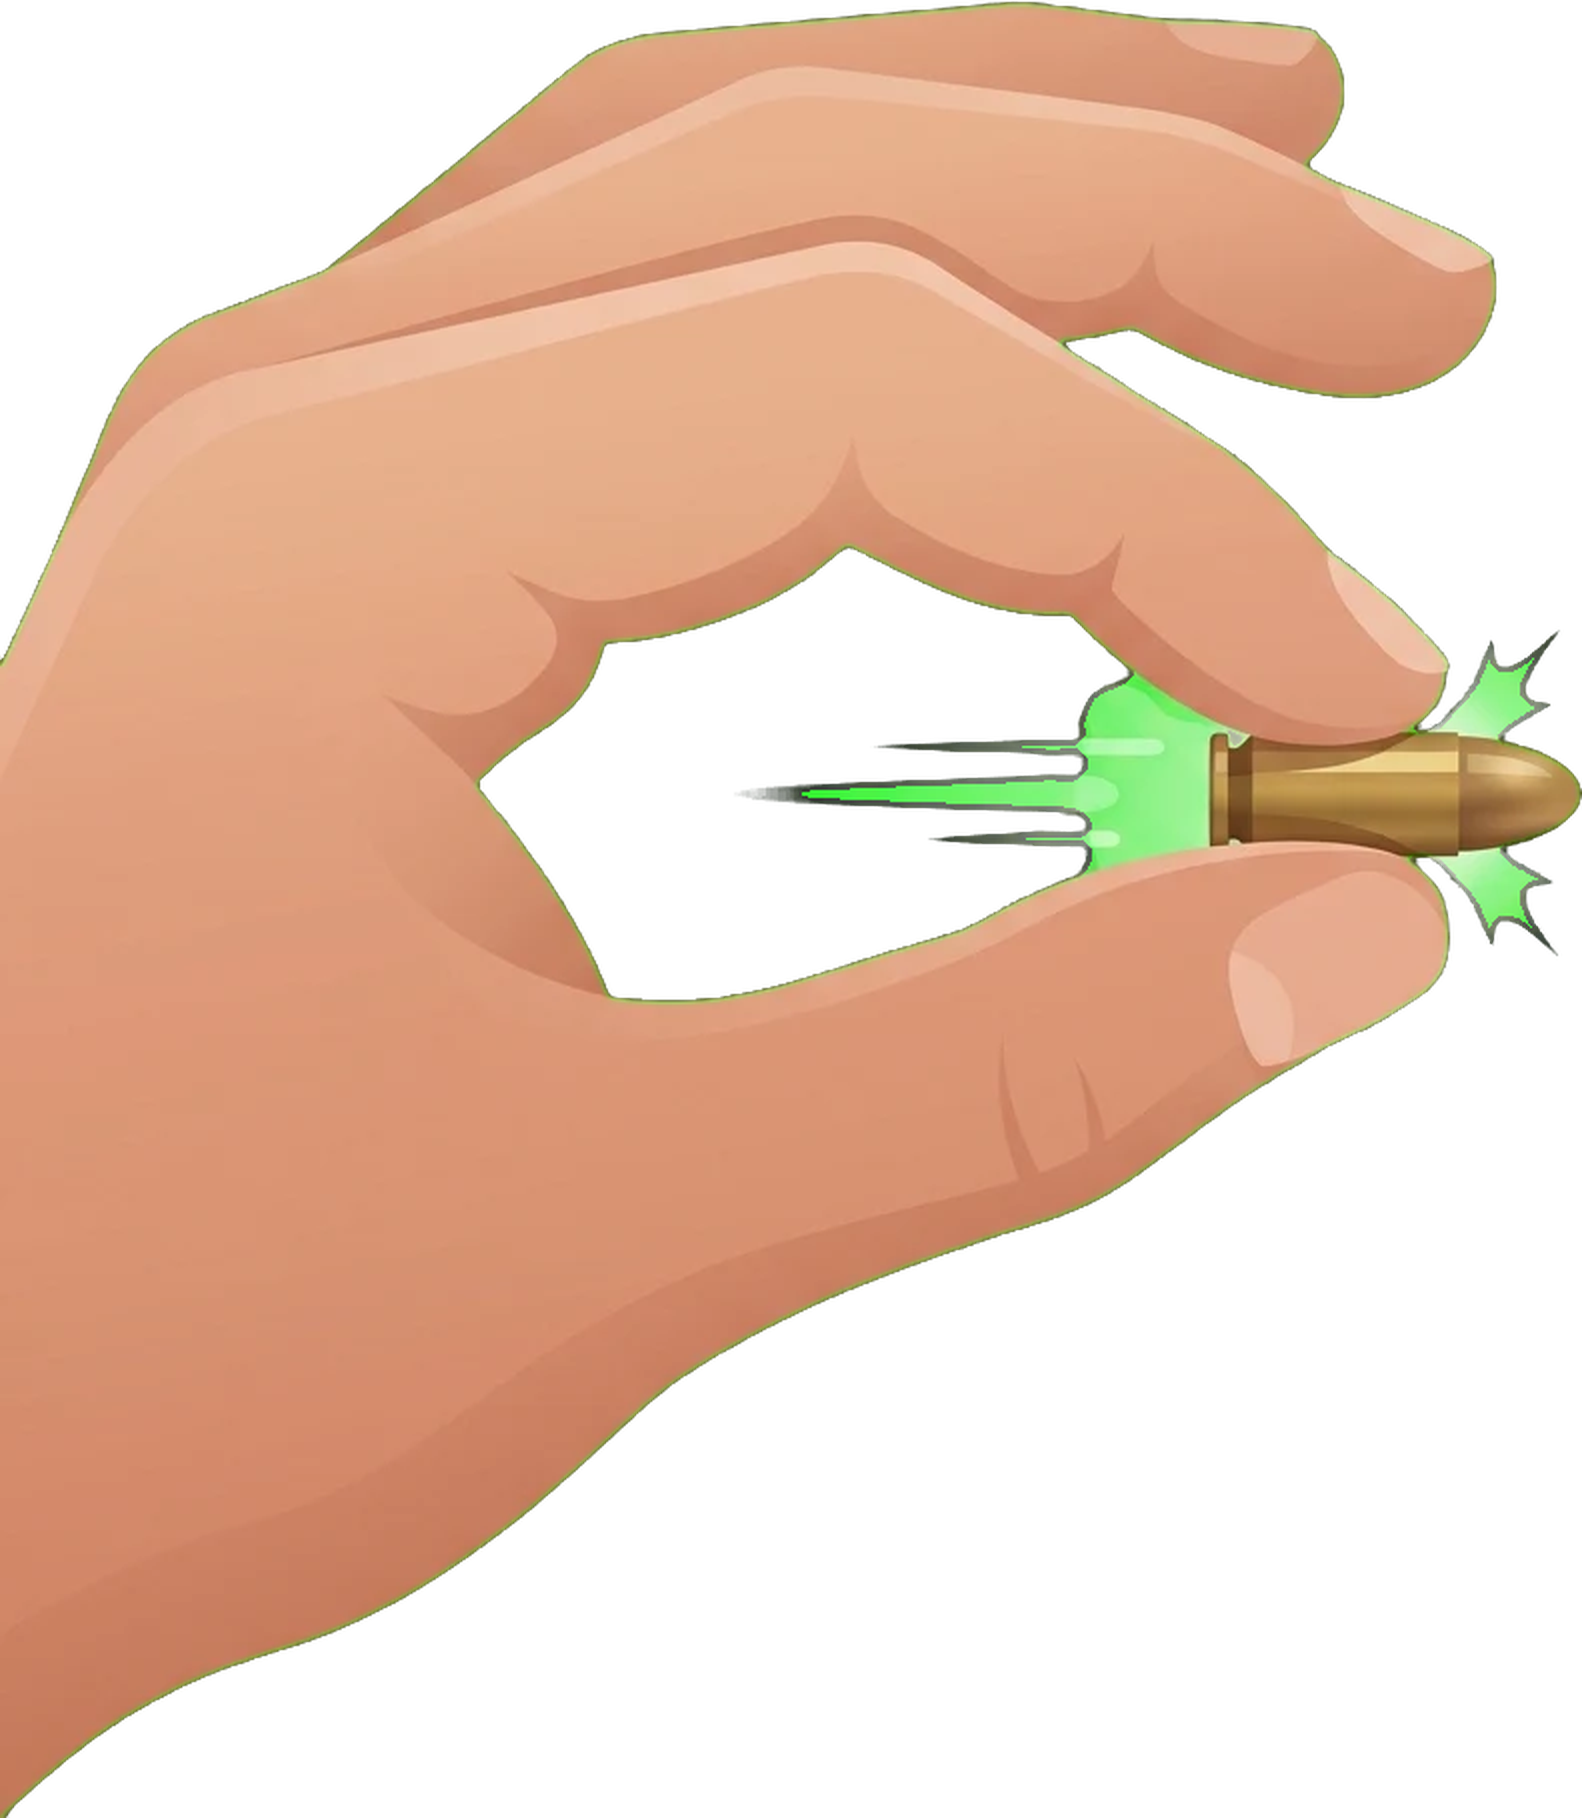
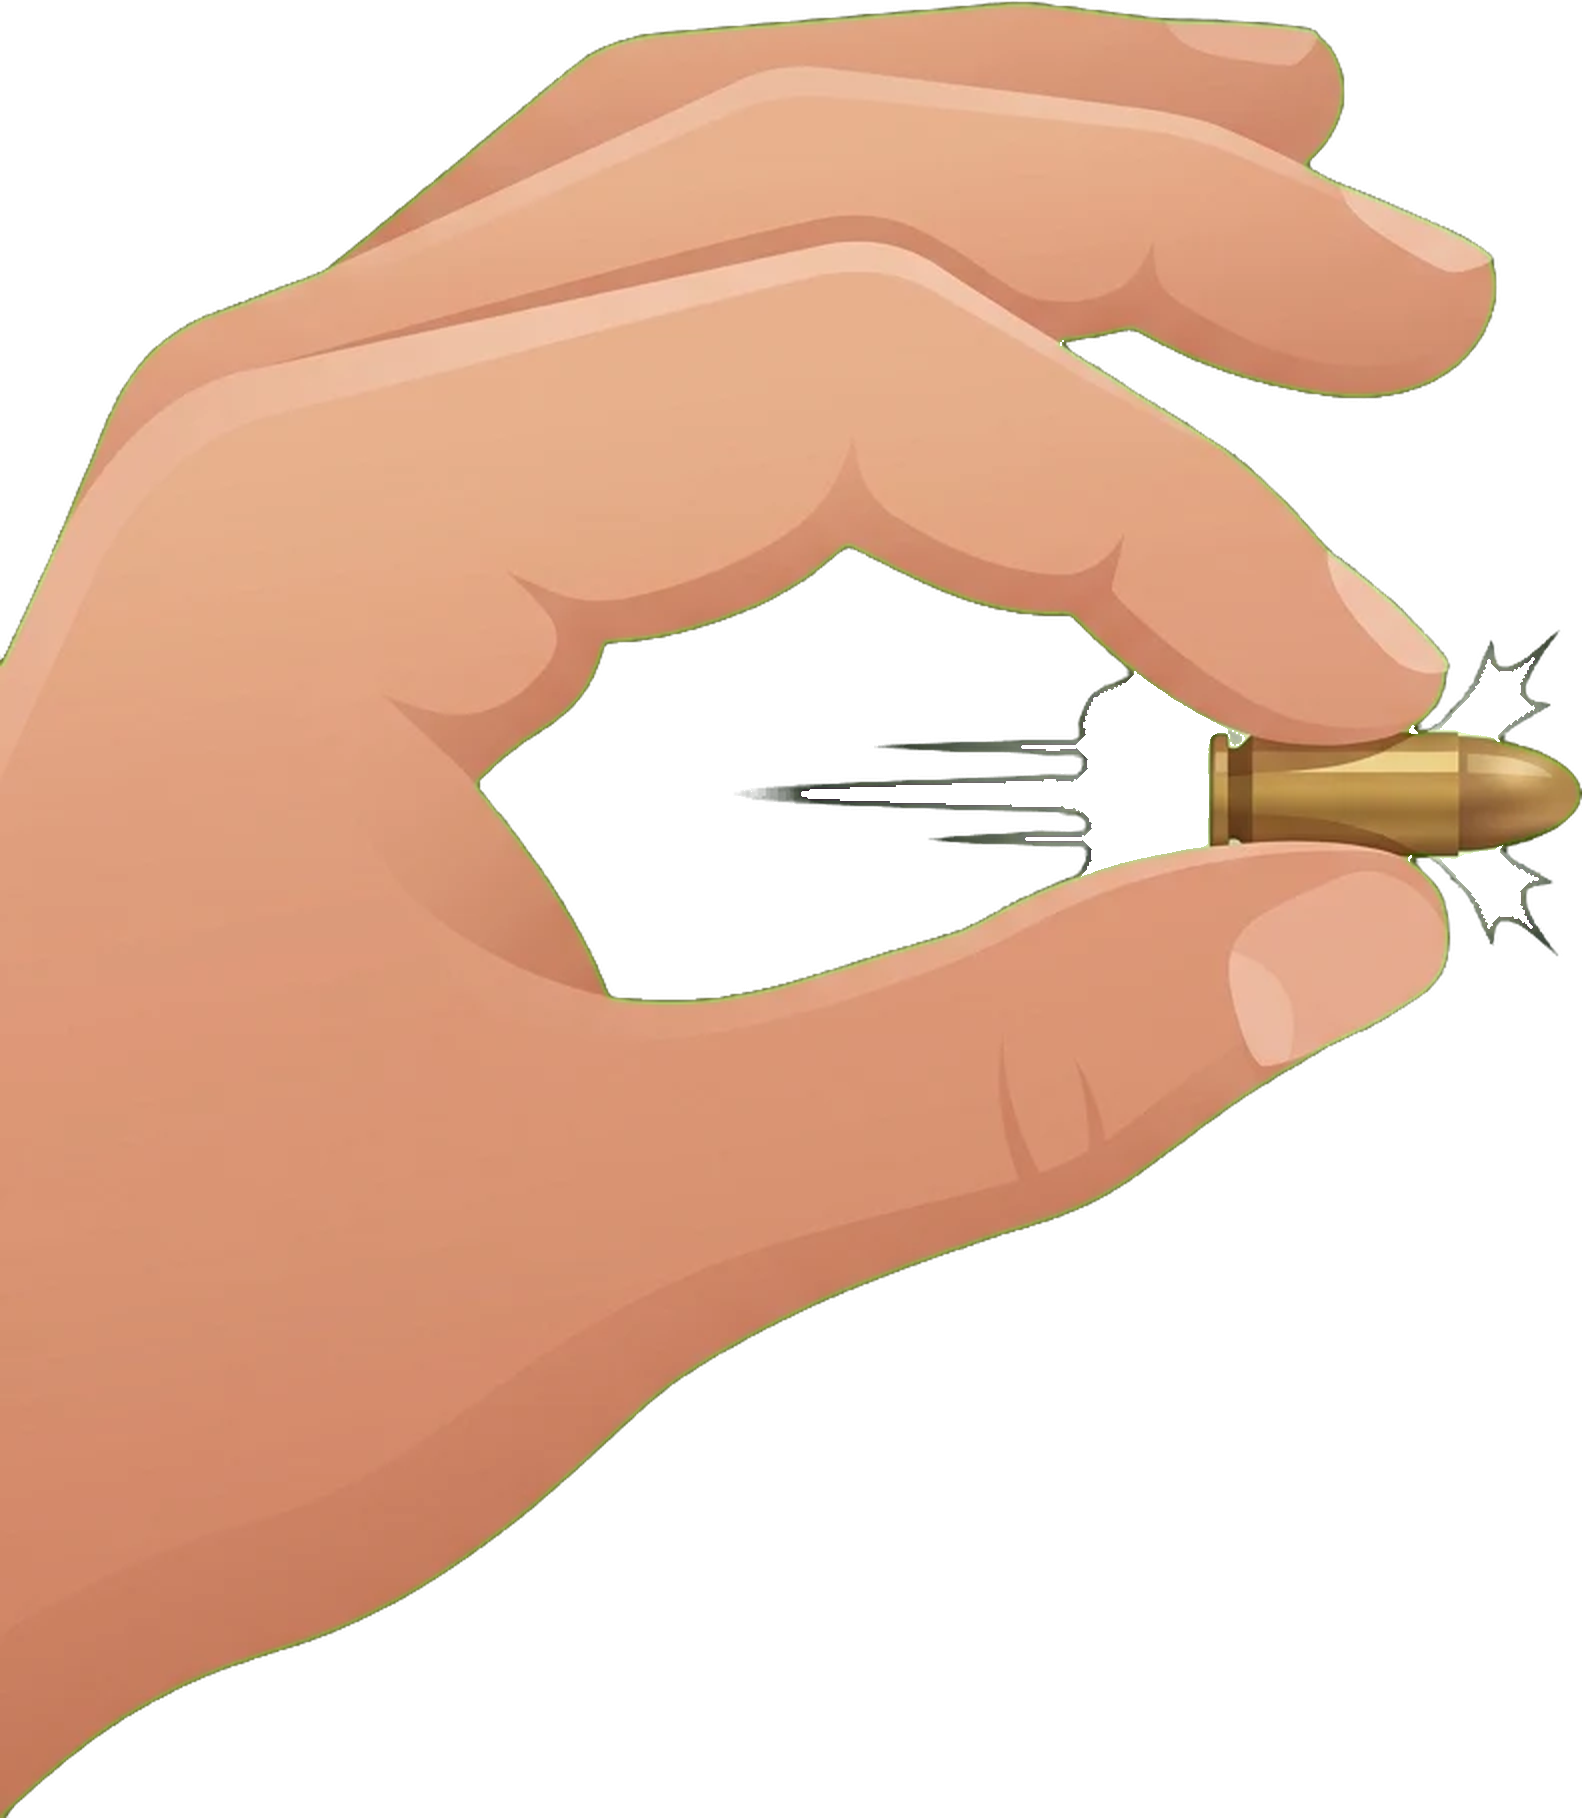
ZA WARUDO v2 (script « ce que tu pourrais faire », nouveaux assets), programmation du 20/11
Claude-Session: https://claude.ai/code/session_01Hiope9eLTpp5ji1vq93e1j

Changed region(s): [[0.4956, 0.3696, 0.7743, 0.4928], [0.8982, 0.462, 0.9602, 0.5237], [0.8982, 0.3696, 0.9602, 0.4312]]

diff --git a/tools/explainer/zawarudo.py b/tools/explainer/zawarudo.py
@@ -87,13 +87,35 @@ def bullet(d, x, y, s=1.0):
 
 class ZaWarudo(v.Show):
     boom_scenes = {"roller": 1.0, "clash": 0.8}
-    scene_sounds = {"stop": [(0.25, "library/_sounds/jojo_villains/dio time stop.mp3", 0.55)]}
+    scene_sounds = {
+        "stop": [(0.25, "library/_sounds/jojo_villains/dio time stop.mp3", 0.55)],
+        "walk": [(0.25 + 0.42 * i, "library/_sfx/Helton Yan's Old-School Shonen SFX/FGHTBf_Anime Land 3.ogg", 0.35) for i in range(6)],
+        "ora": [(0.05 + 0.11 * i, "library/_sfx/Helton Yan's Old-School Shonen SFX/FGHTImpt_Anime Melee {}.ogg".format(1 + i % 7), 0.22) for i in range(18)],
+        "moves": [(0.0, "library/_sfx/Helton Yan's Old-School Shonen SFX/FGHTImpt_Anime Melee 5.ogg", 0.3)],
+    }
 
     def __init__(self, script):
         super().__init__(script)
         rnd = random.Random(5)
         self.drops = [(rnd.uniform(40, W - 40), rnd.uniform(380, 1560)) for _ in range(70)]
         self.knives = [(rnd.uniform(-0.4, 0.4)) for _ in range(9)]
+
+    def pizza_parts(self):
+        if "_pizza" not in self.cache:
+            from scipy import ndimage
+            pz = self.png("pizza", 900)
+            a = np.asarray(pz.getchannel("A")) > 100
+            lab, n = ndimage.label(a)
+            parts = []
+            for i, sl in enumerate(ndimage.find_objects(lab)):
+                mk = Image.fromarray(((lab[sl] == i + 1) * 255).astype(np.uint8))
+                piece = pz.crop((sl[1].start, sl[0].start, sl[1].stop, sl[0].stop))
+                piece.putalpha(Image.fromarray(np.minimum(np.asarray(piece.getchannel("A")), np.asarray(mk))))
+                ang = math.atan2((sl[0].start + sl[0].stop) / 2 - 450, (sl[1].start + sl[1].stop) / 2 - 450)
+                parts.append((ang, piece, (sl[1].start, sl[0].start)))
+            parts.sort(key=lambda p: p[0])
+            self.cache["_pizza"] = [(p, b) for _, p, b in parts]
+        return self.cache["_pizza"]
 
     def loop_counter(self):
         return ("TIME", "RUNNING", YEL)                  # = image 0 (boucle)
@@ -122,6 +144,70 @@ class ZaWarudo(v.Show):
                 return ("TIME", "STOPPED" if tl > t0 else "RUNNING", YEL)
             im.paste(stopped(im, 1 - ease(q)))
             return None
+        if kind == "late":                               # l'horloge bloquée à 8 h 59
+            im.paste(stopped(im, 1))
+            ck = clock_img(700, 59)
+            im.alpha_composite(ck, (540 - 350, 640))
+            return ("LATE", "NEVER", YEL)
+        if kind == "pizza":                              # les 8 parts disparaissent une à une
+            im.paste(stopped(im, 1))
+            pz = self.pizza_parts()
+            n = min(8, int(tl / max(0.2, (dur - 0.3) / 8)))
+            for i, (part, box) in enumerate(pz):
+                if i < n:
+                    continue
+                im.alpha_composite(part, (540 - 450 + box[0], 1000 - 450 + box[1]))
+            if 0 < n <= 8:                               # petit « pop » sur la dernière mangée
+                d.text((540, 480), "CHOMP!", font=m.P("Bold", 90), fill=YEL + (255,), anchor="mm", stroke_width=6, stroke_fill=(20, 14, 6))
+            return ("SLICES LEFT", str(8 - n), YEL)
+        if kind == "rain":                               # pluie figée (image Gemini), elle ne tombe pas
+            im.paste(stopped(im, 1))
+            r = self.png("raindrops", H - 420)                 # sous la zone du texte
+            for x in range(-r.width // 2, W + r.width, r.width):
+                im.alpha_composite(r, (int(x + 30 * math.sin(t * 0.3)), 420))
+            return ("YOU GET WET", "0%", YEL)
+        if kind == "bullet":
+            im.paste(stopped(im, 1))
+            if tl < 0.9:                                 # la balle ralentit puis s'arrête
+                b = self.png("bullet", 330)
+                x = -300 + 700 * (1 - (1 - min(1, tl / 0.9)) ** 3)
+                im.alpha_composite(b, (int(x), 900))
+                return ("BULLET SPEED", f"{int(1700 * (1 - min(1, tl / 0.9)) ** 2)} mph", YEL)
+            hb = self.png("hand_bullet", 1000)
+            k = back(min(1, (tl - 0.9) / 0.3))
+            h2 = hb.resize((max(1, int(hb.width * k)), max(1, int(hb.height * k))), Image.BILINEAR)
+            im.alpha_composite(h2, (int(540 - h2.width / 2), int(1000 - h2.height / 2)))
+            return ("BULLET SPEED", "0 mph", YEL)
+        if kind == "moves":                              # DIO choqué, l'écran tremble
+            im.paste(stopped(im, 1))
+            sh = 12 * math.exp(-tl * 3)
+            self.char(im, "dio_shocked", 540 + sh * math.sin(t * 60), H + 60, 1400, t, tl / 0.15)
+            return ("SOMEONE", "MOVED", RED)
+        if kind == "walk":                               # Jotaro avance vers toi, pas lourds
+            im.paste(stopped(im, 1))
+            k = ease(min(1, tl / max(0.5, dur)))
+            h = 1150 + 900 * k
+            self.halo(im, 540, 1200, int(380 + 200 * k), (150, 110, 255), 80)
+            jw = self.png("jotaro_walk", int(h))
+            bob = 10 * abs(math.sin(tl * 5))
+            im.alpha_composite(jw, (int(540 - jw.width / 2), int(H + 40 - h * 0.86 - bob)))
+            return ("DISTANCE", f"{max(0.5, 6 * (1 - k)):.1f} m", PURP)
+        if kind == "ora":                                # rafale de poings + ORA
+            im.paste(stopped(im, 1))
+            sp = self.png("star_platinum", 1350)
+            rnd = random.Random(int(t * 20))
+            fist = sp.crop((0, int(sp.height * 0.55), int(sp.width * 0.62), sp.height))
+            for _ in range(7):                           # poings fantômes
+                f2 = fist.copy()
+                f2.putalpha(f2.getchannel("A").point(lambda a: int(a * 0.55)))
+                im.alpha_composite(f2, (int(rnd.uniform(-120, 420)), int(rnd.uniform(650, 1250))))
+            jx = rnd.uniform(-14, 14)
+            im.alpha_composite(sp, (int(W - sp.width + 60 + jx), int(H + 60 - 1350 + rnd.uniform(-8, 8))))
+            for i in range(5):
+                x, y = rnd.uniform(120, 960), rnd.uniform(450, 1500)
+                d.text((x, y), "ORA", font=m.P("Bold", int(rnd.uniform(70, 130))), fill=(235, 180, 255, 255), anchor="mm",
+                       stroke_width=6, stroke_fill=(30, 10, 50))
+            return ("HITS", f"{int(tl * 22)}", PURP)
         if kind == "five":
             im.paste(stopped(im, 1))
             self.char(im, "dio_face", 720, H + 60, 1200, t, tl / 0.3)
@@ -188,7 +274,7 @@ class ZaWarudo(v.Show):
                     flash(im, 255, 255, 255, int(70 * hit))
             return ("STAND TYPE", "SAME", WHITE)
         if kind == "choice":
-            for j, (x0, lab, col, name) in enumerate(((60, "DIO", YEL, "dio_eyes"), (560, "JOTARO", PURP, "jotaro"))):
+            for j, (x0, lab, col, name) in enumerate(((60, "DIO", YEL, "dio_face"), (560, "JOTARO", PURP, "jotaro"))):
                 k = back(min(1, max(0, (tl - 0.15 * j) / 0.35)))
                 if k <= 0:
                     continue
@@ -196,8 +282,8 @@ class ZaWarudo(v.Show):
                 pm = Image.new("L", (pw, ph), 0)
                 ImageDraw.Draw(pm).rounded_rectangle((0, 0, pw - 1, ph - 1), radius=44, fill=255)
                 bgp = Image.new("RGBA", (pw, ph), (16, 26, 58, 255))
-                e = self.png(name, 1150 if j == 0 else 1500)
-                yoff = -0.30 if j == 0 else -0.03
+                e = self.png(name, 1500)
+                yoff = -0.03
                 bgp.alpha_composite(e, (int(pw / 2 - e.width / 2), int(e.height * yoff)))
                 panel = Image.new("RGBA", (pw, ph), (0, 0, 0, 0))
                 panel.paste(bgp, (0, 0), pm)

diff --git a/REPRISE.md b/REPRISE.md
@@ -17,12 +17,12 @@ Mis à jour le 19/11. Mémoire complète : `CLAUDE.md` (outil + règles), `PLAYB
 Gauntlet 193k · Power Up 101k · Transformations 31k · Domain War 10k · Battle 4,6k · Snake/Guess ~2k. Instagram ~150 vues/post.
 
 ## Programmation
-- Rien de programmé après **sam. 21/11 6 PM** ; le créneau du vendredi soir est vide.
+- Ven. 20/11 : 1 PM LIBRE (DIO vs Jonathan annulé le 19/11), 6 PM Hokage, 10 PM ZA WARUDO. Rien après **sam. 21/11 6 PM**.
 - **Akatsuki** (« Every Akatsuki Member », `plus tard/Transformations/`) : pas programmé, proposé ven. 20/11.
 - Post Instagram **Hokage** (`6afe0fd40a1fb75cd4165cd6`) : garde l'ancien son (l'utilisateur a refusé la modif). Ne pas y toucher sans demander.
 
 ## En cours
-1. **Série « If you had… »** (explainers 25–30 s, DA bleu nuit + or validée le 19/11, persos Gemini style simple sur fond vert) : moteur `tools/explainer/infinity_v4.py` (texte Poppins fin + mot en gras `*…*`, compteur doré, badge « IF YOU HAD... », carte « 1 ou 2 », follow qui reboucle sur l'image 0, filigrane, voix am_adam), un fichier par épisode qui hérite de `Show` : `byakugan.py` (✅ publié 19/11 1 PM), Gojo (`infinity_v4.py` + `scripts/gojo_infinity_v4.json`, test NON publié), `zawarudo.py` (v1 refusée : « pas intéressant, gouttes moches, tête de DIO à la fin » → **v2 en cours** : script « ce que TU pourrais faire » : jamais en retard, finir la pizza, pluie qui ne mouille pas, attraper une balle, road roller, 5 s à toi, puis Jotaro qui marche vers toi « yare yare daze » + ORA ORA ; assets reçus : jotaro_walk, raindrops, bullet, hand_bullet ; **attendus** : DIO choqué au style simple (1re version trop détaillée) + pizza). Détourage fond vert qui garde les éléments verts : `tools/explainer/key_green.py`. Prompts : toujours UNE image par message, fond vert.
+1. **Série « If you had… »** (explainers 25–30 s, DA bleu nuit + or validée le 19/11, persos Gemini style simple sur fond vert) : moteur `tools/explainer/infinity_v4.py` (texte Poppins fin + mot en gras `*…*`, compteur doré, badge « IF YOU HAD... », carte « 1 ou 2 », follow qui reboucle sur l'image 0, filigrane, voix am_adam), un fichier par épisode qui hérite de `Show` : `byakugan.py` (✅ publié 19/11 1 PM), Gojo (`infinity_v4.py` + `scripts/gojo_infinity_v4.json`, test NON publié), `zawarudo.py` (v1 refusée : « pas intéressant, gouttes moches, tête de DIO à la fin » → **v2 FAITE et programmée ven. 20/11 10 PM** (`scripts/zawarudo_v2.json`) : script « ce que TU pourrais faire » : jamais en retard, finir la pizza, pluie qui ne mouille pas, attraper une balle, road roller, 5 s à toi, puis Jotaro qui marche vers toi « yare yare daze » + ORA ORA ; assets reçus : jotaro_walk, raindrops, bullet, hand_bullet ; **attendus** : DIO choqué au style simple (1re version trop détaillée) + pizza). Détourage fond vert qui garde les éléments verts : `tools/explainer/key_green.py`. Prompts : toujours UNE image par message, fond vert.
 2. **Format long « What If »** : analyse faite (`ANALYSE_WHAT_IF.md`), démo 30 s `tools/whatif/demo.py` (stop time). « On a du chemin à faire » : à reprendre plus tard.
 3. **Voix de persos** Hokage / Akatsuki : si l'utilisateur les fournit (`library/_sounds/naruto_voices/`), re-rendre les 2 vidéos.
 4. **Quiz « Whose theme is this? »** (Naruto : Naruto, Sasuke, Itachi, Kakashi, Jiraiya, Pain/Girei, Madara), un seul type par quiz, cohérent : en attente de validation + extraits audio (l'utilisateur télécharge, Claude donne les commandes yt-dlp).

diff --git a/DEJA_FAITES.md b/DEJA_FAITES.md
@@ -12,10 +12,10 @@ Kid Goku vs Beerus (03/11, 353k YT) + revanche (05/11) · Kid Naruto vs Sasuke (
 JoJo Villains (15/11) · DB → DBZ Villains (18/11) · First Hokage → Eighth Hokage (20/11 6 PM, Shikamaru 8e)
 
 ## Nouveaux formats en test
-Infection War DIO vs Jonathan (20/11 1 PM) · Shadow Clone Multiplier Naruto 10 000 (21/11 6 PM)
+Infection War DIO vs Jonathan (ANNULÉ le 19/11, pas publié) · Shadow Clone Multiplier Naruto 10 000 (21/11 6 PM)
 
 ## Explainers « If you had… » (DA bleu nuit + or, tools/explainer/infinity_v4.py)
-If you had the Byakugan (19/11 1 PM, TikTok/YT/IG) · (Gojo's Infinity = test, NON publié) · ZA WARUDO en cours (v2)
+If you had the Byakugan (19/11 1 PM, TikTok/YT/IG) · If you could stop time like DIO / ZA WARUDO v2 (20/11 10 PM) · (Gojo's Infinity = test, NON publié)
 
 ## Gauntlet (« Can X survive the … gauntlet? »)
 Base Goku vs One Piece (06–07/11, 364k TikTok) · Base Goku vs Naruto (07–08/11, 1M TikTok) · Sage Naruto vs Naruto (07–08/11) · Toji vs JJK meme (09/11) · Ichigo True Bankai vs Naruto (10/11) · Sukuna vs Naruto (11/11) · Gojo vs JJK (11/11) · Base Goku vs JJK (12/11, il gagne) · Gojo vs Dragon Ball (13/11, gag Frieza) · Gear 5 Luffy vs Naruto (15/11, perd contre Naruto Baryon) · Base Goku vs EVERY anime (19/11 6 PM, 18 adversaires de 10 animes, il gagne)
